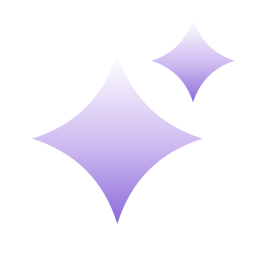
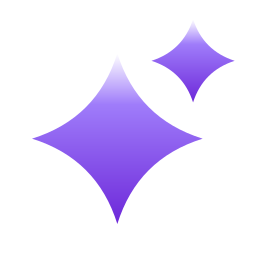
chore(branding): saturate spark gradient to violet across app and packaging
Gradient rework:
- Shift the vertical spark fill from white -> lavender -> purple to
  white tips fading into saturated violet (#9F7CFA at 0.3 into
  #6D28D9), pulling the mid tone earlier for a richer look
- Update gradient stops and comments in src/App.xaml (SparkFillBrush),
  src/Assets/spark.svg, and packaging/linux/icons/warpagent.svg so
  the in-app glyph and static assets share the same palette

Regenerated binaries:
- Rebuild spark.ico, spark.png, and the full Linux icon set
  (16-256px) from the updated SVG so packaged icons match the new
  in-app brand mark

Changed region(s): [[0.125, 0.25, 0.7812, 0.875], [0.5938, 0.0938, 0.9062, 0.4062]]

diff --git a/src/App.xaml b/src/App.xaml
@@ -156,12 +156,12 @@
 			<!--  brand mark: main spark + companion, same construction as Assets/spark.svg;
 			      subpaths never overlap so the default fill rule is safe  -->
 			<StreamGeometry x:Key="IconSpark">M11 5 Q12.9 11.1 19 13 Q12.9 14.9 11 21 Q9.1 14.9 3 13 Q9.1 11.1 11 5 Z M18.1 1.8 Q19.05 4.75 22 5.7 Q19.05 6.65 18.1 9.6 Q17.15 6.65 14.2 5.7 Q17.15 4.75 18.1 1.8 Z</StreamGeometry>
-			<!--  brand gradient: white -> lavender -> purple, vertical; spans the PathIcon's
-			      stretched bounds so it maps 1:1 onto the SVG viewBox gradient  -->
+			<!--  brand gradient: white tips into saturated violet, vertical; spans the
+			      PathIcon's stretched bounds so it maps 1:1 onto the SVG viewBox gradient  -->
 			<LinearGradientBrush x:Key="SparkFillBrush" StartPoint="0%,0%" EndPoint="0%,100%">
 				<GradientStop Color="#FFFFFFFF" Offset="0" />
-				<GradientStop Color="#FFCDB9F0" Offset="0.55" />
-				<GradientStop Color="#FF8B6AD9" Offset="1" />
+				<GradientStop Color="#FF9F7CFA" Offset="0.3" />
+				<GradientStop Color="#FF6D28D9" Offset="1" />
 			</LinearGradientBrush>
 			<StreamGeometry x:Key="IconFolder">M3 5 H9 L11 7 H21 V19 H3 Z</StreamGeometry>
 			<StreamGeometry x:Key="IconFolderOutline">F0 M1.8 4 H9.4 L11.4 6 H22.2 V19.2 H1.8 Z M3.4 5.6 H8.6 L10.6 7.6 H20.6 V17.6 H3.4 Z</StreamGeometry>
